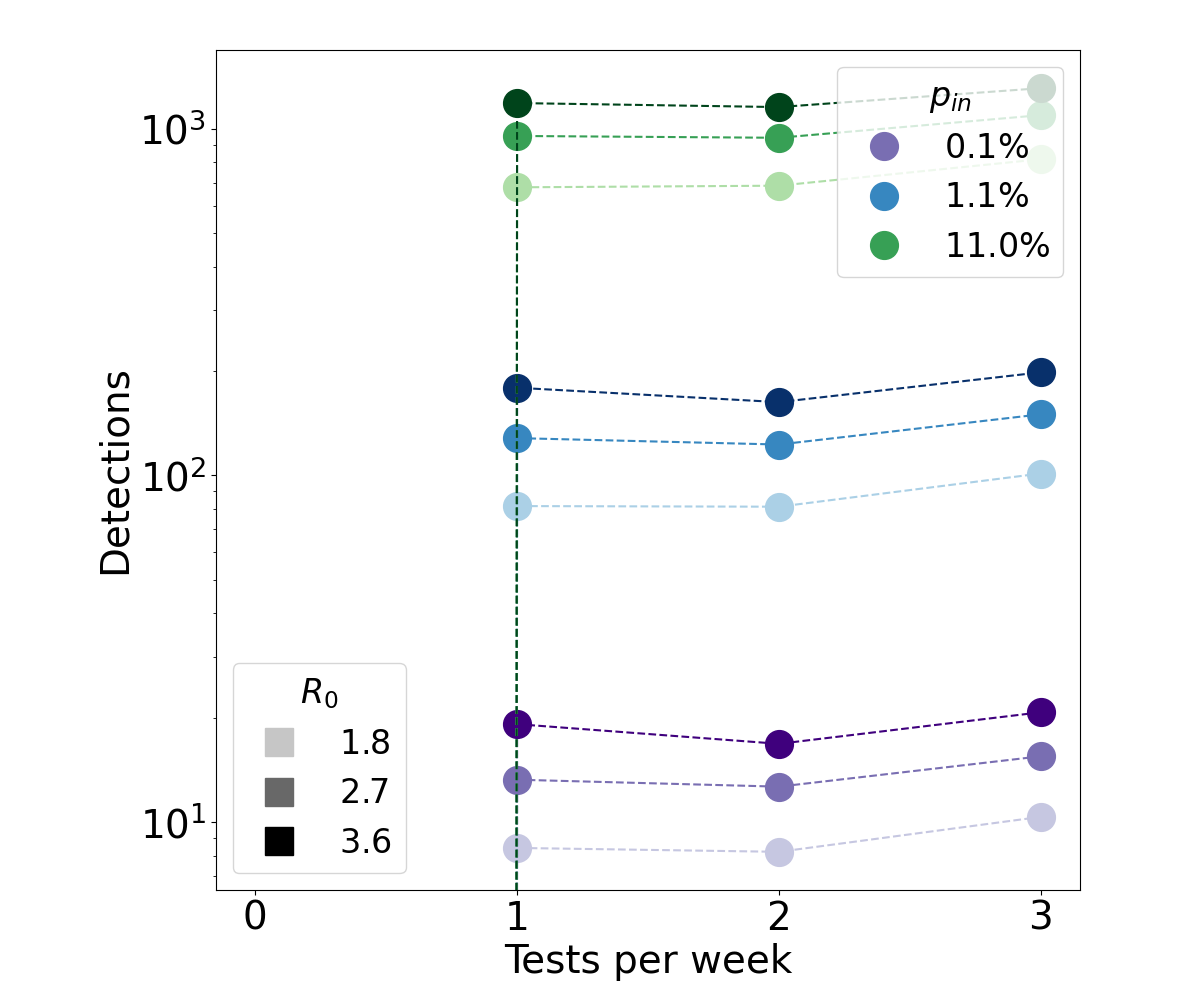
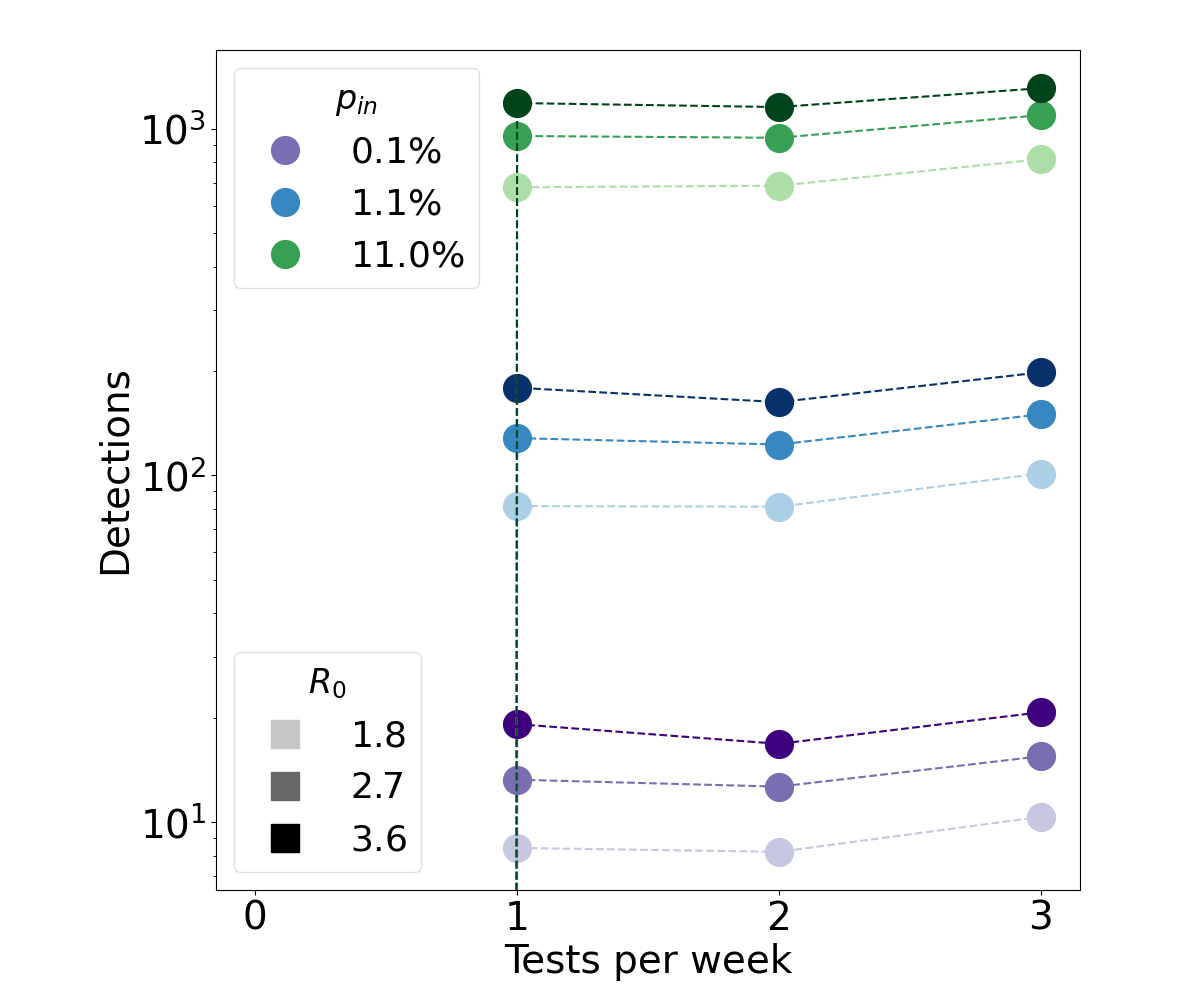
Figures are ready for meeting with Florian 6.05.21 mac20

diff --git a/Codes/Kitas_Schools/analysis.py b/Codes/Kitas_Schools/analysis.py
@@ -96,25 +96,39 @@ for k, p_in in enumerate(p_in_s):
 		#fig2.savefig('../../Figures/Kitas_Schools/newplots/statistics_infections_prevented_percent_pin-%.3f_beta-%.3f.png'%(p_in, beta))
 		#fig3.savefig('../../Figures/Kitas_Schools/newplots/statistics_detections_pin-%.3f_beta-%.3f.png'%(p_in, beta))
 
+#--------- Legend 1 ---------
 custom_lines = [Line2D([0], [0],linestyle = '', marker = 'o', ms = 20, color=colors[i][2], lw=4) for i in range(int(len(p_in_s)))]
-
 labels = [r'$%.1f\%%$'%(p_in*100) for p_in in p_in_s]
 
-legend1_1 = ax.legend(custom_lines, labels, fontsize = 24, loc = 1, title = r'$p_{in}$', title_fontsize = 24)
-legend1_2 = ax2.legend(custom_lines, labels, fontsize = 24, loc = 1, title = r'$p_{in}$', title_fontsize = 24)
-legend1_3 = ax3.legend(custom_lines, labels, fontsize = 24, loc = 1, title = r'$p_{in}$', title_fontsize = 24)
+#legend1_1 = ax.legend(custom_lines, labels, fontsize = 26, loc = 1, title = r'$p_{in}$', title_fontsize = 24, framealpha = .6)
+#legend1_2 = ax2.legend(custom_lines, labels, fontsize = 26, loc = 2, title = r'$p_{in}$', title_fontsize = 24, framealpha = .6)
+legend1_3 = ax3.legend(custom_lines, labels, fontsize = 26, loc = 2, title = r'$p_{in}$', title_fontsize = 24, framealpha = .6)
 
-ax.add_artist(legend1_1)
-ax2.add_artist(legend1_2)
+#ax.add_artist(legend1_1)
+#ax2.add_artist(legend1_2)
 ax3.add_artist(legend1_3)
 
-custom_lines = [Line2D([0], [0],linestyle = '', marker = 's', ms = 20, color=i, lw=4) for i in plt.cm.Greys(np.linspace(0,1,int(len(betas)+1))[1:])]
+#----------------------------
 
+#--------- Legend 2 ---------
+custom_lines = [Line2D([0], [0],linestyle = '', marker = '^', ms = 20, color='k', lw=4),  Line2D([0], [0],linestyle = '', marker = '*', ms = 20, color='k', lw=4)]
+labels = ['Overall', 'Transmisions']
+
+legend2_1 = ax.legend(custom_lines, labels, fontsize = 26, loc = 1, title = 'Type', title_fontsize = 24, framealpha = .6)
+legend2_2 = ax2.legend(custom_lines, labels, fontsize = 26, loc = 4, title = 'Type', title_fontsize = 24, framealpha = .6)
+#legend2_3 = ax3.legend(custom_lines, labels, fontsize = 24, loc = 2, title = 'Type', title_fontsize = 24)
+
+ax.add_artist(legend2_1)
+ax2.add_artist(legend2_2)
+#ax3.add_artist(legend2_3)
+#----------------------------
+#--------- Legend 3 ---------
+custom_lines = [Line2D([0], [0],linestyle = '', marker = 's', ms = 20, color=i, lw=4) for i in plt.cm.Greys(np.linspace(0,1,int(len(betas)+1))[1:])]
 labels = [r'$%.1f$'%(beta*5) for beta in betas]
 
-ax.legend(custom_lines, labels, fontsize = 24, loc = 3, title = r'$R_0$', title_fontsize = 24)
-ax2.legend(custom_lines, labels, fontsize = 24, loc = 3, title = r'$R_0$', title_fontsize = 24)
-ax3.legend(custom_lines, labels, fontsize = 24, loc = 3, title = r'$R_0$', title_fontsize = 24)
+#ax.legend(custom_lines, labels, fontsize = 24, loc = 3, title = r'$R_0$', title_fontsize = 24, framealpha = .6)
+#ax2.legend(custom_lines, labels, fontsize = 24, loc = 4, title = r'$R_0$', title_fontsize = 24, framealpha = .6)
+ax3.legend(custom_lines, labels, fontsize = 26, loc = 3, title = r'$R_0$', title_fontsize = 24, framealpha = .6)
 
 fig.savefig('../../Figures/Kitas_Schools/Analysis/statistics_infections_percent.png')
 fig2.savefig('../../Figures/Kitas_Schools/Analysis/statistics_infections_prevented_percent.png')
